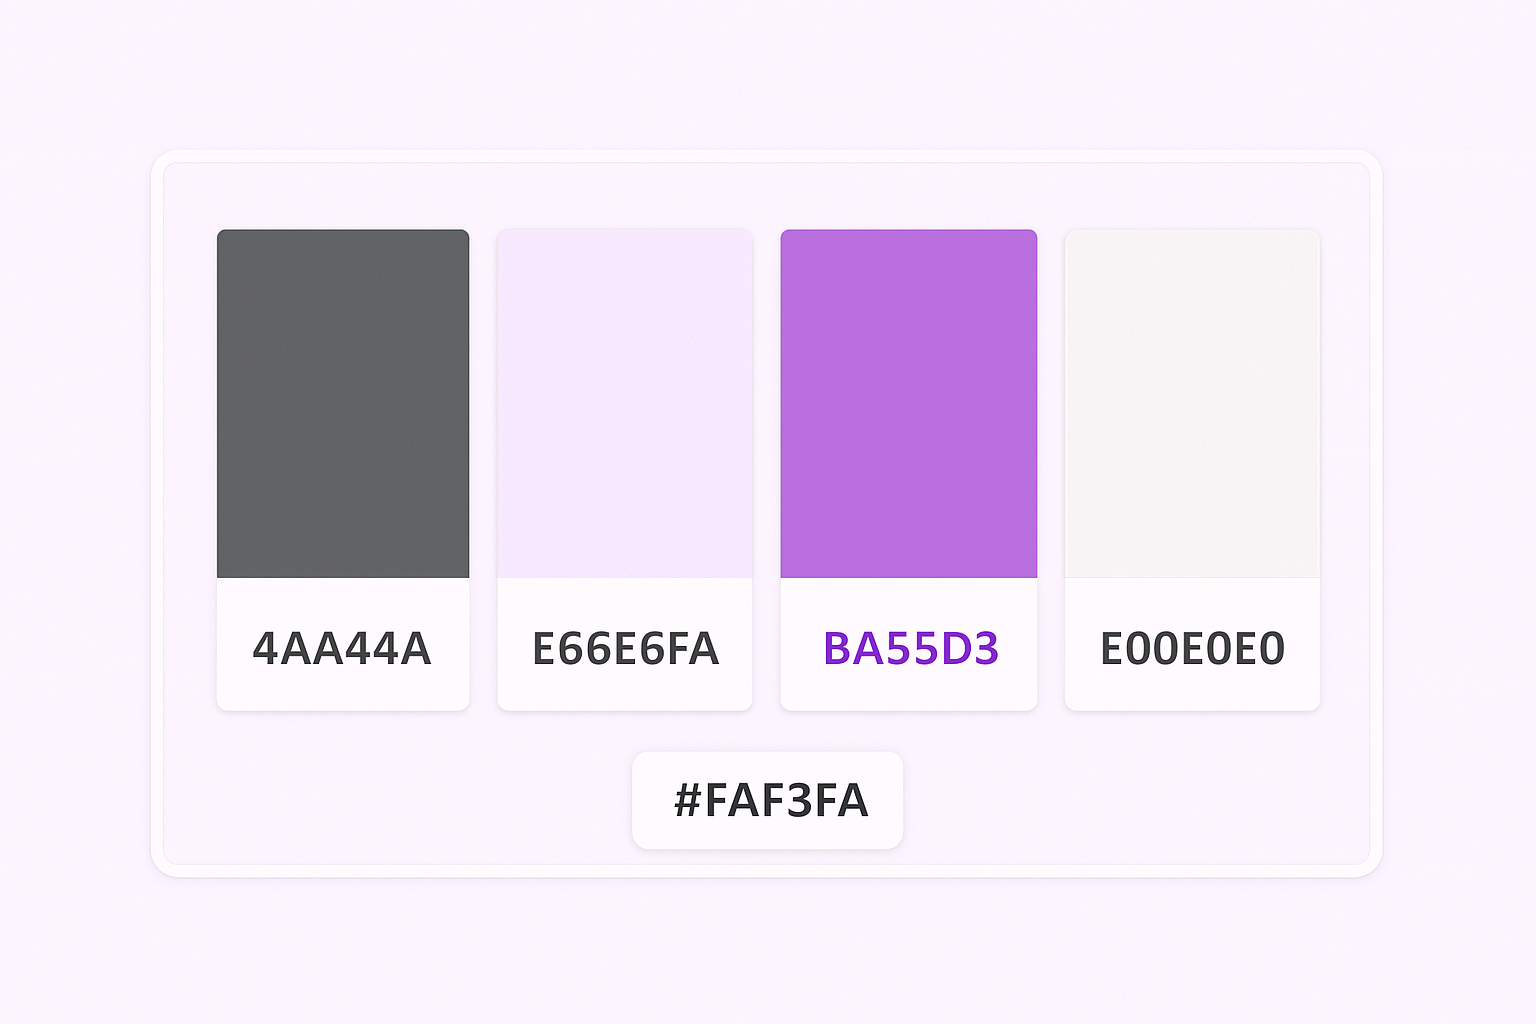
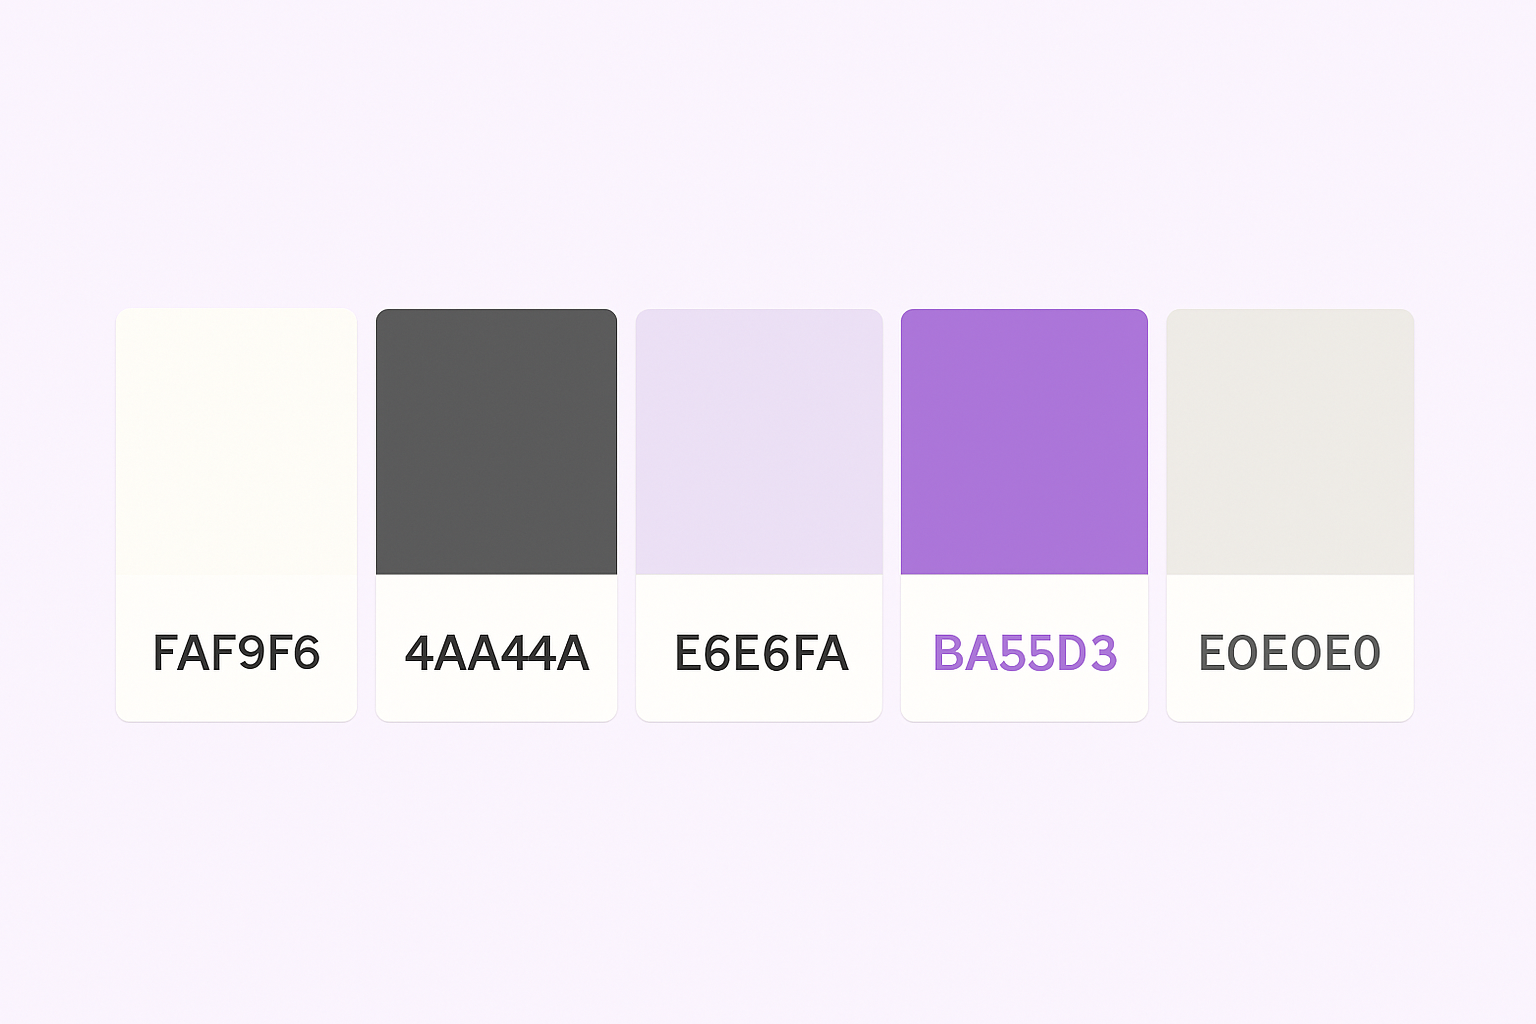
refactor: update background color to a softer lavender tone (#FAF9F6)
This change modifies the background color from #FAF3FA to #FAF9F6 to create
a more pleasant reading experience. The new color maintains the soft lavender
aesthetic while providing better contrast and reduced eye strain during
extended reading sessions.

The update affects:
- CSS variables in custom.css
- Documentation in the color palette blog post

diff --git a/assets/css/custom.css b/assets/css/custom.css
@@ -4,7 +4,7 @@
   --callouctcolor: dodgerblue !important;
   --hovercolor: #BA55D3 !important;
   --darkMaincolor: #BA55D3 !important;
-  --bgcolor: #FAF3FA;
+  --bgcolor: #FAF9F6;
   --text: #4A4A4A;
   --border: #E6E6FA;
 }

diff --git a/content/blog/2025-04-02-why-we-changed-the-site-color-palette.md b/content/blog/2025-04-02-why-we-changed-the-site-color-palette.md
@@ -17,13 +17,13 @@ We redesigned the site’s color palette with one goal in mind: **to make your r
 
 Studies in interface design and cognitive neuroscience show that **pure white backgrounds and high-contrast elements** can cause eye strain during extended reading sessions. A study published in the *International Journal of Human-Computer Studies* points out that soft, lightly tinted backgrounds can reduce visual stress and help readers stay focused for longer.
 
-So we replaced the pure white background with **#FAF3FA**, a soft lavender tone that keeps the clarity of white while being easier on the eyes.
+So we replaced the pure white background with `#FAF9F6`, a soft lavender tone that keeps the clarity of white while being easier on the eyes.
 
 ## 🎨 The New Color Palette
 
 Our focus was to create a harmonious, accessible experience with a modern and welcoming vibe. Here's the palette:
 
-- **Background:** `#FAF3FA` – soft lavender that diffuses light and reduces glare.
+- **Background:** `#FAF9F6` – soft lavender that diffuses light and reduces glare.
 - **Main Text:** `#4A4A4A` – dark gray for clean, high-contrast readability without harshness.
 - **Links and Highlights:** `#E6E6FA` – a soft lavender accent that complements the background.
 - **Buttons/CTAs:** `#BA55D3` – a vibrant purple for elements that need to stand out.
